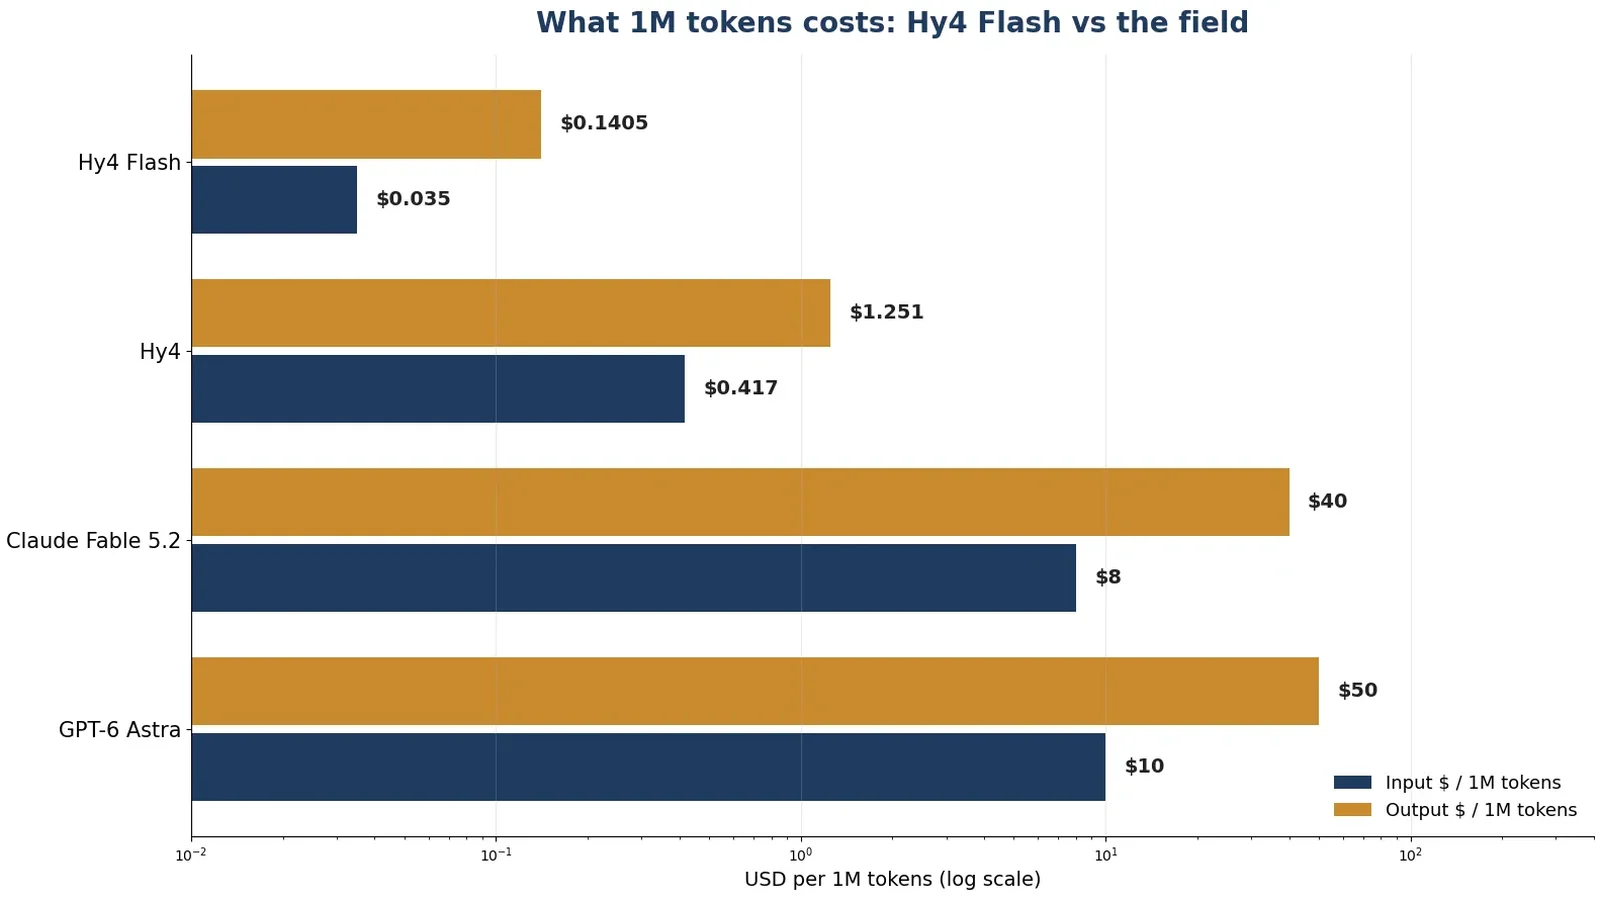
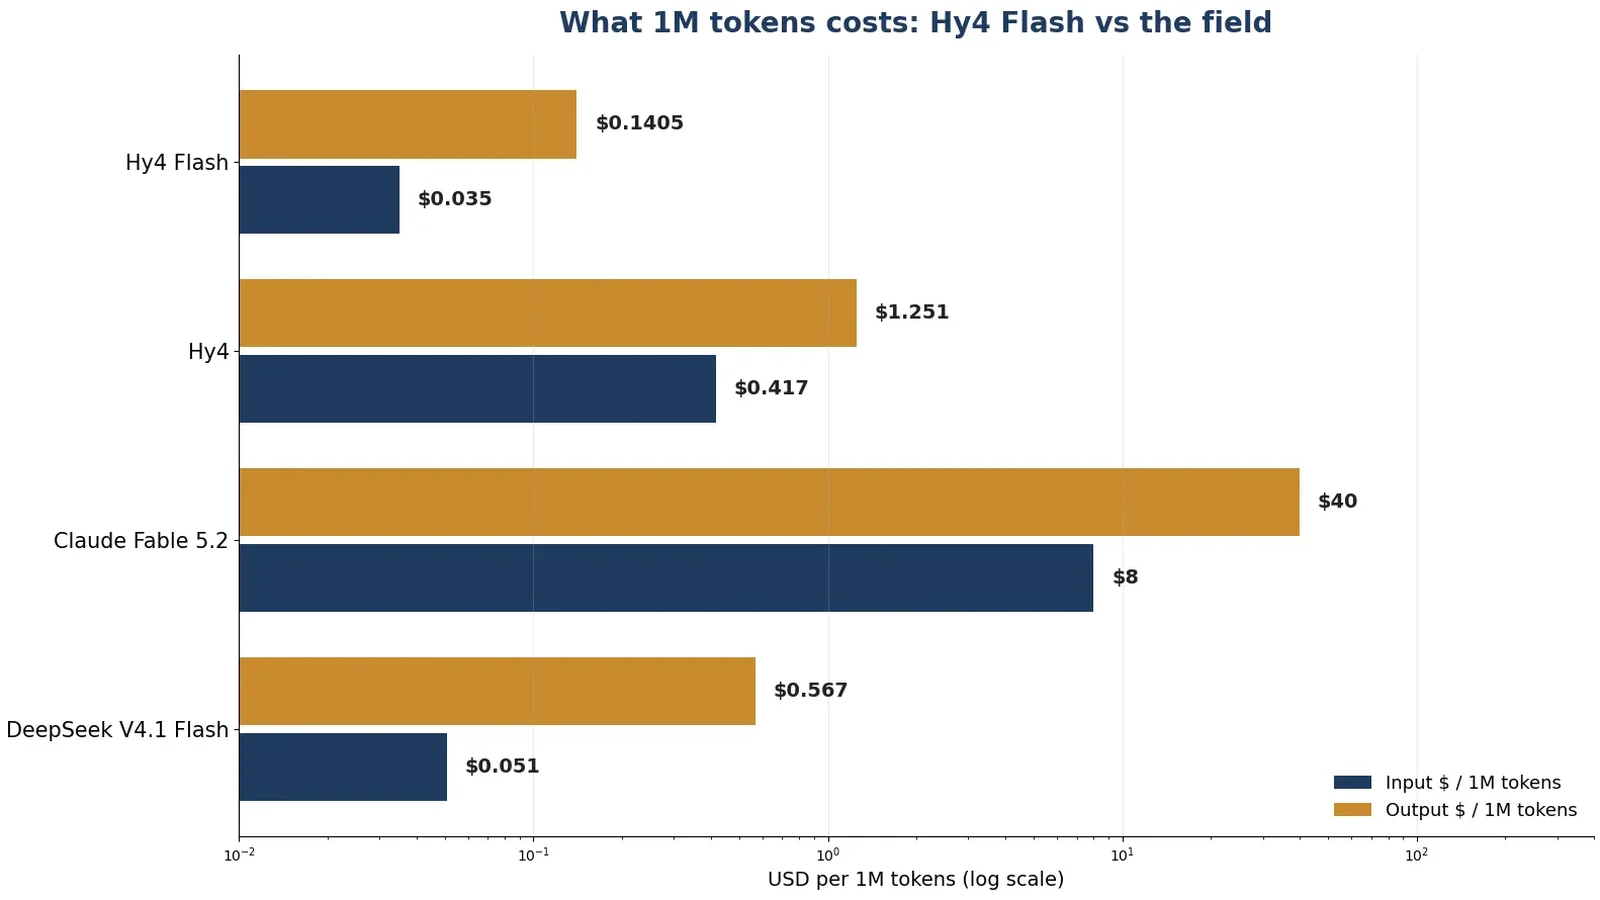
Tutorial: align Hy4 Flash price chart with the decision table
Replace GPT-6 Astra with DeepSeek V4.1 Flash in the price chart so the
four charted models are exactly the four rows of the comparison table
(Astra's $10/$50 prices remain cited in the prose below the table).
Update the chart alt text to match.

diff --git a/articles/hy4-flash-hands-on-tutorial/index.html b/articles/hy4-flash-hands-on-tutorial/index.html
@@ -268,7 +268,7 @@ response = client.chat.completions.create(
 <table><thead><tr><th>Model</th><th>Context</th><th>Input $/1M</th><th>Output $/1M</th><th>Reach for it when</th></tr></thead><tbody><tr><td><strong>Hy4 Flash</strong></td><td>1,048,576</td><td>$0.035</td><td>$0.1405</td><td>High-volume document work, agents, and anything where the job is big and the budget is not</td></tr><tr><td><strong>Hy4</strong></td><td>1,048,576</td><td>$0.417</td><td>$1.251</td><td>The hardest reasoning, long-horizon agents, and native computer use — still 12× cheaper than Fable 5.2 on input</td></tr><tr><td><strong>Claude Fable 5.2</strong></td><td>1,000,000</td><td>$8.00</td><td>$40.00</td><td>Long-horizon coding agents where Anthropic's agentic track record is worth 200× the input price</td></tr><tr><td><strong>DeepSeek V4.1 Flash</strong></td><td>1,048,576</td><td>$0.051</td><td>$0.567</td><td>You want the same 1M-token, low-price lane and prefer DeepSeek's ecosystem</td></tr></tbody></table>
 <p>Prices are OpenRouter listed rates at November 20, 2026; Hy4 Flash and Hy4 are shown at their 50% promotional discount. GPT-6 Astra, for reference, lists at $10 input and $50 output per million tokens — the price of a frontier closed model, for frontier closed-model work.</p>
 <p>The decision tree is short. If the job is document processing, deep search, slide creation, or routine computer use — the workloads Tencent itself recommends Flash for — use Flash over the API and spend the savings on more context. If the job is the hardest reasoning you have, or an agent that runs for hours, try Hy4 first and measure whether the quality gap is worth 12× the input price. If the job is a long-horizon coding agent and a failure costs a day, Fable 5.2's price is the cost of the insurance. And self-host only when the documents cannot leave your network or the volume makes the API bill bigger than the GPU bill — then the FP8 checkpoint and the vLLM recipe in Step 6 are the starting point.</p>
-<figure class="inline-art"><img class="story-image" src="/articles/hy4-flash-hands-on-tutorial/img3.webp" alt="Bar chart of input-token prices per million tokens on a log scale: Hy4 Flash $0.035, Hy4 $0.417, Claude Fable 5.2 $8, GPT-6 Astra $10"><figcaption>Input-token prices per million tokens, log scale. OpenRouter listed rates, November 20, 2026. Chart: AI Frontier Post.</figcaption></figure>
+<figure class="inline-art"><img class="story-image" src="/articles/hy4-flash-hands-on-tutorial/img3.webp" alt="Bar chart of input and output token prices per million tokens on a log scale: Hy4 Flash $0.035 in / $0.1405 out, Hy4 $0.417 / $1.251, Claude Fable 5.2 $8 / $40, DeepSeek V4.1 Flash $0.051 / $0.567"><figcaption>Input-token prices per million tokens, log scale. OpenRouter listed rates, November 20, 2026. Chart: AI Frontier Post.</figcaption></figure>
 <h2 id="license">The license clause to read before you ship<a class="anchor" href="#license" aria-label="Link to section">#</a></h2>
 <p>Hy4 Flash is released under the Tencent Hy License, version 1.0, effective November 16, 2026. It is derived from Apache 2.0, and for most uses it behaves like it: you can download the weights, fine-tune them, and deploy them inside your company. The exception is Section 10.2, and it is the part people skip. If you operate a model-as-a-service business — that is, you expose the model to other people through your own infrastructure — and either your worldwide gross revenue from that business exceeds $50 million in any consecutive twelve months, or the service exceeds 100 million monthly active users in any calendar month, you need a separate written license from Tencent (contact <code>hy_partners@tencent.com</code>) before you use or continue using the weights. Section 10.3 states the requirement does not apply to internal use.</p>
 <p>For a solo developer, a startup, or an internal deployment, this changes nothing. For anyone building a hosted product on top of these weights, it is the first thing to check with a lawyer, not the last. Open weights are not open source, and this license is unusually explicit about where the line is.</p>
